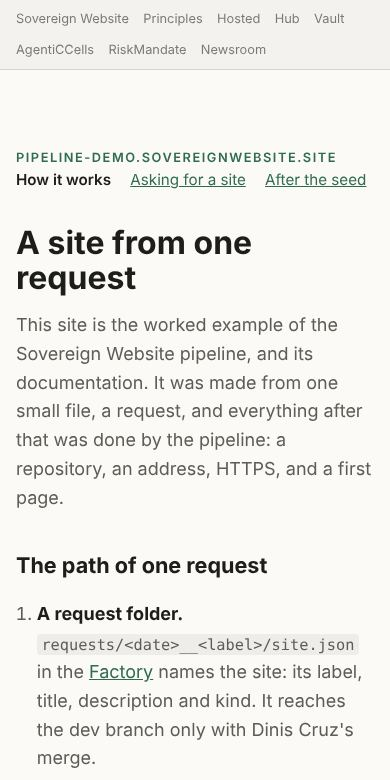
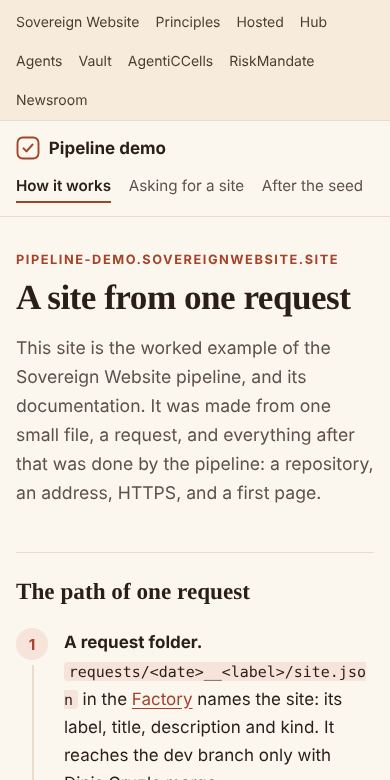
Showroom design round 1, from design.b@'s review
Capped frames (16/10, 4/5 on phones, the whole frame links to the
site); text colours apart from fills, every pair 5:1 or better; a light
and a dark palette in each design, chosen by the visitor's setting;
design 4 is now By group, one band per group; one address per site in
sites.json, screenshots retaken; the switch is a nav landmark; nothing
stored in the browser (the design lives in #design-N); first row of
shots loads eagerly.

Agent: hub.b@SovereignWebsite.dinis
Claude-Session: https://claude.ai/code/session_01Kw9UwB7XboTsnbPPWaMr2d

Changed region(s): [[0.0308, 0.2769, 0.9538, 0.6462], [0.0308, 0.7077, 0.9538, 1.0], [0.0, 0.0, 1.0, 0.2462]]

diff --git a/site/index.html b/site/index.html
@@ -5,60 +5,71 @@
 <meta name="viewport" content="width=device-width, initial-scale=1">
 <title>Sovereign Website Hub</title>
 <meta name="description" content="The showroom of public sovereign websites: built by agents, owned by the people they are for.">
-<script>try{var d=(location.hash.match(/design-([1-5])/)||[])[1]||localStorage.getItem('hub-design');if(d)document.documentElement.className='d-'+d;}catch(e){}</script>
+<script>var d=(location.hash.match(/design-([1-5])/)||[])[1];if(d)document.documentElement.className='d-'+d;</script>
 <style>
 *{box-sizing:border-box}html{-webkit-text-size-adjust:100%}
-body{margin:0;font:17px/1.6 system-ui,-apple-system,"Segoe UI",sans-serif;background:var(--bg);color:var(--fg);transition:background .3s,color .3s}
-a{color:inherit}img{display:block;width:100%;height:auto}
-.switch{position:sticky;top:0;z-index:5;display:flex;gap:.4rem;align-items:center;flex-wrap:wrap;padding:.5rem 1rem;background:color-mix(in srgb,var(--bg) 88%,transparent);backdrop-filter:blur(8px);border-bottom:1px solid var(--line);font-size:.85rem}
+body{margin:0;font:17px/1.6 system-ui,-apple-system,"Segoe UI",sans-serif;background:var(--bg);color:var(--fg)}
+a{color:inherit}img{display:block;width:100%}
+.switch{position:sticky;top:0;z-index:5;display:flex;gap:.4rem;align-items:center;flex-wrap:wrap;padding:.5rem 1rem;background:var(--bg);border-bottom:1px solid var(--line);font-size:.85rem}
 .switch span{color:var(--muted);margin-right:.3rem}.switch button{font:inherit;padding:.3rem .75rem;border-radius:999px;border:1px solid var(--line);background:transparent;color:var(--fg);cursor:pointer}
-.switch button[aria-pressed=true]{background:var(--accent);border-color:var(--accent);color:var(--on-accent)}
+.switch button[aria-pressed=true]{background:var(--fill);border-color:var(--fill);color:var(--on-fill)}
 main{max-width:76rem;margin:0 auto;padding:4rem 1rem 3rem}
 .hero .kicker{text-transform:uppercase;letter-spacing:.16em;font-size:.75rem;font-weight:700;color:var(--accent);margin:0}
 .hero h1{margin:.4rem 0 1rem;line-height:1.02;font-size:clamp(2.4rem,7vw,5rem);letter-spacing:-.02em}
 .hero p{max-width:40rem;color:var(--muted);font-size:1.1rem;margin:0}
 .sites{display:grid;gap:2.5rem;margin-top:3.5rem}
+.band{display:contents}.band-h{display:none}
 .frame{display:block;border-radius:12px;overflow:hidden;background:var(--card);border:1px solid var(--line);text-decoration:none;transition:transform .25s,box-shadow .25s}
-.frame:hover{transform:translateY(-4px);box-shadow:0 18px 40px -18px rgba(0,0,0,.35)}
+.frame:hover,.frame:focus-visible{transform:translateY(-4px);box-shadow:0 18px 40px -18px rgba(0,0,0,.35)}
+.frame img{aspect-ratio:16/10;object-fit:cover;object-position:top;height:auto}
+@media (max-width:640px){.frame img{aspect-ratio:4/5}}
 .chrome{display:flex;align-items:center;gap:.35rem;padding:.5rem .75rem;border-bottom:1px solid var(--line);background:var(--card);font-size:.75rem;color:var(--muted)}
 .chrome i{width:.6rem;height:.6rem;border-radius:50%;background:var(--line)}.chrome b{font-weight:500;margin-left:.5rem;overflow:hidden;text-overflow:ellipsis;white-space:nowrap}
 .tags{display:flex;gap:.4rem;margin:1rem 0 .3rem;padding:0;flex-wrap:wrap}.tags span{font-size:.72rem;text-transform:uppercase;letter-spacing:.1em;padding:.15rem .55rem;border-radius:999px;border:1px solid var(--line);color:var(--muted)}
 .tags span:empty{display:none}
-.site h2{margin:.2rem 0 .4rem;font-size:1.6rem;line-height:1.15}.site h2 a{text-decoration:none}.site h2 a:hover{text-decoration:underline}
-.sum{color:var(--muted);margin:0 0 .6rem}.note{font-size:.85rem;margin:0 0 .6rem;padding:.3rem .6rem;border-left:3px solid var(--accent);background:var(--card)}
+.site h3{margin:.2rem 0 .4rem;font-size:1.6rem;line-height:1.15}.site h3 a{text-decoration:none}.site h3 a:hover{text-decoration:underline}
+.sum{color:var(--muted);margin:0 0 .6rem}.note{font-size:.85rem;margin:0 0 .6rem;padding:.3rem .6rem;border-left:3px solid var(--fill);background:var(--card)}
 .go a{font-weight:600;color:var(--accent);text-decoration:none}.go a:hover{text-decoration:underline}
 .how{margin-top:4rem;padding-top:2rem;border-top:1px solid var(--line);color:var(--muted);font-size:.92rem;max-width:46rem}
+.how a,footer a{color:var(--accent)}
 footer{max-width:76rem;margin:0 auto;padding:1.5rem 1rem 3rem;color:var(--muted);font-size:.82rem;border-top:1px solid var(--line)}
 @media (prefers-reduced-motion:reduce){*{transition:none!important;animation:none!important}}
 
-/* 1 Editorial: light, serif headings, one site per row, large shots */
-.d-1{--bg:#fbfaf7;--fg:#1d1d1b;--muted:#5d5c57;--accent:#2f6b4f;--on-accent:#fff;--line:#e4e1d8;--card:#fff}
-.d-1 h1,.d-1 .site h2{font-family:Georgia,"Times New Roman",serif;font-weight:500}
-@media (min-width:900px){.d-1 .site{display:grid;grid-template-columns:1.6fr 1fr;gap:2.5rem;align-items:center}.d-1 .site:nth-child(even) .frame{order:2}}
+/* Each design has a light and a dark palette; the visitor's setting chooses. --accent is for text, --fill for fills. */
+/* 1 Editorial: serif, one site per row, large shots */
+.d-1{--bg:#fbfaf7;--fg:#1d1d1b;--muted:#5d5c57;--accent:#2f6b4f;--fill:#2f6b4f;--on-fill:#fff;--line:#e4e1d8;--card:#fff}
+@media (prefers-color-scheme:dark){.d-1{--bg:#141513;--fg:#ecebe6;--muted:#a8a69e;--accent:#86c9a8;--fill:#86c9a8;--on-fill:#141513;--line:#2c2d29;--card:#1c1d1a}}
+.d-1 h1,.d-1 .site h3{font-family:Georgia,"Times New Roman",serif;font-weight:500}
+@media (min-width:900px){.d-1 .site{display:grid;grid-template-columns:1.6fr 1fr;gap:2.5rem;align-items:center}.d-1 .site:nth-of-type(even) .frame{order:2}}
 
-/* 2 Night gallery: dark, glowing frames, two columns */
-.d-2{--bg:#0d0f12;--fg:#eef1f4;--muted:#9aa3ad;--accent:#7cf0c4;--on-accent:#0d0f12;--line:#262b31;--card:#151920}
-.d-2 .hero h1{background:linear-gradient(90deg,#7cf0c4,#8ab4ff);-webkit-background-clip:text;background-clip:text;color:transparent}
-.d-2 .frame{box-shadow:0 0 0 1px #262b31,0 20px 60px -30px #7cf0c4}
-@media (min-width:800px){.d-2 .sites{grid-template-columns:1fr 1fr}.d-2 .site:first-child{grid-column:1/-1}}
+/* 2 Night gallery: the first site large and glowing, the rest in a grid */
+.d-2{--bg:#0d0f12;--fg:#eef1f4;--muted:#9aa3ad;--accent:#7cf0c4;--fill:#7cf0c4;--on-fill:#0d0f12;--line:#262b31;--card:#151920;--glow:#7cf0c4}
+@media (prefers-color-scheme:light){.d-2{--bg:#f6f8fb;--fg:#0e1726;--muted:#4a5568;--accent:#0f6e4f;--fill:#0f6e4f;--on-fill:#fff;--line:#d8dee8;--card:#fff;--glow:#3aa77f}}
+.d-2 .hero h1{background:linear-gradient(90deg,var(--accent),#5b8def);-webkit-background-clip:text;background-clip:text;color:transparent}
+.d-2 .frame{box-shadow:0 0 0 1px var(--line),0 20px 60px -30px var(--glow)}
+@media (min-width:800px){.d-2 .sites{grid-template-columns:1fr 1fr}.d-2 .sites>.band:first-child>.site:first-of-type{grid-column:1/-1}}
 
 /* 3 Grid: bold, square, monospace labels, three columns */
-.d-3{--bg:#f4f1ea;--fg:#111;--muted:#333;--accent:#e4402f;--on-accent:#fff;--line:#111;--card:#fff}
+.d-3{--bg:#f4f1ea;--fg:#111;--muted:#333;--accent:#b3261e;--fill:#b3261e;--on-fill:#fff;--line:#111;--card:#fff;--hard:#111}
+@media (prefers-color-scheme:dark){.d-3{--bg:#141414;--fg:#f4f1ea;--muted:#d6d2c8;--accent:#ff8a7a;--fill:#ff8a7a;--on-fill:#141414;--line:#f4f1ea;--card:#1e1e1e;--hard:#f4f1ea}}
 .d-3 .hero h1{text-transform:uppercase;font-weight:900;letter-spacing:-.03em}
-.d-3 .frame,.d-3 .switch button,.d-3 .tags span{border-radius:0;border-width:2px}.d-3 .frame:hover{transform:translate(-4px,-4px);box-shadow:8px 8px 0 #111}
+.d-3 .frame,.d-3 .switch button,.d-3 .tags span{border-radius:0;border-width:2px}.d-3 .frame:hover{transform:translate(-4px,-4px);box-shadow:8px 8px 0 var(--hard)}
 .d-3 .tags span,.d-3 .chrome{font-family:ui-monospace,Menlo,Consolas,monospace}
 @media (min-width:900px){.d-3 .sites{grid-template-columns:repeat(3,1fr);gap:1.5rem}}
 
-/* 4 Magazine: warm cream, staggered, big numbers */
-.d-4{--bg:#f6efe3;--fg:#2b211a;--muted:#6f5e50;--accent:#b4532a;--on-accent:#fff;--line:#e2d3bf;--card:#fffaf2}
-.d-4 h1,.d-4 .site h2{font-family:"Palatino Linotype",Palatino,Georgia,serif}
-.d-4 .site{position:relative;counter-increment:n;padding-top:2.6rem}.d-4 .site::before{content:"0" counter(n);position:absolute;top:0;right:0;font:700 3.2rem/1 Georgia,serif;color:var(--accent);opacity:.25}
-@media (min-width:900px){.d-4 .sites{grid-template-columns:1fr 1fr;column-gap:3rem}.d-4 .site:nth-child(even){margin-top:6rem}}
+/* 4 By group: one band per group, so the page explains the groups as it shows the sites */
+.d-4{--bg:#f6efe3;--fg:#2b211a;--muted:#6f5e50;--accent:#9c4421;--fill:#9c4421;--on-fill:#fff;--line:#e2d3bf;--card:#fffaf2}
+@media (prefers-color-scheme:dark){.d-4{--bg:#1e1813;--fg:#f3e9dc;--muted:#c8b8a6;--accent:#e8a07a;--fill:#e8a07a;--on-fill:#1e1813;--line:#3b3027;--card:#261f19}}
+.d-4 h1,.d-4 .site h3,.d-4 .band-h{font-family:"Palatino Linotype",Palatino,Georgia,serif}
+.d-4 .sites{display:block}.d-4 .band{display:grid;gap:2rem;padding:2rem 0;border-top:2px solid var(--line)}
+.d-4 .band-h{display:block;margin:0;font-size:clamp(1.8rem,4vw,2.6rem);color:var(--accent)}
+@media (min-width:900px){.d-4 .band{grid-template-columns:14rem repeat(2,1fr);align-items:start}.d-4 .band-h{grid-row:span 2}}
 
-/* 5 Studio: gradient stage, floating devices, phone shot on small screens */
-.d-5{--bg:#14112b;--fg:#fff;--muted:#c9c3ef;--accent:#ffcf5c;--on-accent:#14112b;--line:#3a3466;--card:#201b45}
-.d-5 body,.d-5{background:radial-gradient(1200px 600px at 10% -10%,#5b3fd1 0,transparent 60%),radial-gradient(900px 500px at 110% 10%,#d13f8f 0,transparent 55%),#14112b}
-.d-5 .frame{border-radius:18px;transform:perspective(1200px) rotateX(4deg);box-shadow:0 30px 80px -30px #000}.d-5 .frame:hover{transform:perspective(1200px) rotateX(0) translateY(-4px)}
+/* 5 Studio: gradient stage, tilted devices */
+.d-5{--bg:#14112b;--fg:#fff;--muted:#c9c3ef;--accent:#ffcf5c;--fill:#ffcf5c;--on-fill:#14112b;--line:#3a3466;--card:#201b45;--stage:radial-gradient(1200px 600px at 10% -10%,#5b3fd1 0,transparent 60%),radial-gradient(900px 500px at 110% 10%,#d13f8f 0,transparent 55%),#14112b}
+@media (prefers-color-scheme:light){.d-5{--bg:#f7f5ff;--fg:#1b1640;--muted:#4b4570;--accent:#5a3fd1;--fill:#5a3fd1;--on-fill:#fff;--line:#ddd7f5;--card:#fff;--stage:radial-gradient(1200px 600px at 10% -10%,#e3dbff 0,transparent 60%),radial-gradient(900px 500px at 110% 10%,#ffd9ec 0,transparent 55%),#f7f5ff}}
+.d-5 body{background:var(--stage)}
+.d-5 .frame{border-radius:18px;transform:perspective(1200px) rotateX(4deg);box-shadow:0 30px 80px -30px rgba(0,0,0,.6)}.d-5 .frame:hover{transform:perspective(1200px) rotateX(0) translateY(-4px)}
 .d-5 .site{text-align:center}.d-5 .tags{justify-content:center}.d-5 .hero{text-align:center}.d-5 .hero p{margin:0 auto}
 @media (min-width:900px){.d-5 .sites{grid-template-columns:repeat(3,1fr);gap:2rem}}
 
@@ -85,7 +96,7 @@ footer{max-width:76rem;margin:0 auto;padding:1.5rem 1rem 3rem;color:var(--muted)
     <li><a href="https://newsroom.sgit.ai/">Newsroom</a></li>
   </ul>
 </nav>
-<div class="switch" role="group" aria-label="Choose a design"><span>Design</span><button type="button" data-d="1" aria-pressed="false">1. Editorial</button><button type="button" data-d="2" aria-pressed="false">2. Night gallery</button><button type="button" data-d="3" aria-pressed="false">3. Grid</button><button type="button" data-d="4" aria-pressed="false">4. Magazine</button><button type="button" data-d="5" aria-pressed="false">5. Studio</button></div>
+<nav class="switch" aria-label="Design"><span>Design</span><button type="button" data-d="1" aria-pressed="false">1. Editorial</button><button type="button" data-d="2" aria-pressed="false">2. Night gallery</button><button type="button" data-d="3" aria-pressed="false">3. Grid</button><button type="button" data-d="4" aria-pressed="false">4. By group</button><button type="button" data-d="5" aria-pressed="false">5. Studio</button></nav>
 <main>
 <header class="hero">
   <p class="kicker">The showroom</p>
@@ -93,41 +104,45 @@ footer{max-width:76rem;margin:0 auto;padding:1.5rem 1rem 3rem;color:var(--muted)
   <p>Sites built by agents and owned by the people they are for: their files, their history, their address. Every site here is public and live; open one to see it working.</p>
 </header>
 <section class="sites" aria-label="Public sites">
+<section class="band" aria-label="Demo"><h2 class="band-h">Demo</h2>
 <article class="site" style="--i:0">
-  <a class="frame" href="https://pipeline-demo.sovereignweb.site/" aria-label="Open A site from one request"><span class="chrome"><i></i><i></i><i></i><b>pipeline-demo.sovereignweb.site</b></span><picture><source media="(max-width:640px)" srcset="shots/pipeline-demo-phone.jpg"><img src="shots/pipeline-demo.jpg" alt="Screenshot of A site from one request" loading="lazy" width="1280" height="800"></picture></a>
+  <a class="frame" href="https://pipeline-demo.sovereignweb.site/" aria-label="Open A site from one request"><span class="chrome"><i></i><i></i><i></i><b>pipeline-demo.sovereignweb.site</b></span><picture><source media="(max-width:640px)" srcset="shots/pipeline-demo-phone.jpg"><img src="shots/pipeline-demo.jpg" alt="Screenshot of A site from one request" loading="eager" width="1280" height="800"></picture></a>
   <div class="meta">
     <p class="tags"><span>Demo</span><span>Guide</span></p>
-    <h2><a href="https://pipeline-demo.sovereignweb.site/">A site from one request</a></h2>
+    <h3><a href="https://pipeline-demo.sovereignweb.site/">A site from one request</a></h3>
     <p class="sum">How the Sovereign Website pipeline turns one request into a site, with this site as the worked example.</p>
     <p class="go"><a href="https://pipeline-demo.sovereignweb.site/">pipeline-demo.sovereignweb.site <span aria-hidden="true">&rarr;</span></a></p>
   </div>
 </article>
 <article class="site" style="--i:1">
-  <a class="frame" href="https://emily-cruz.artist.sovereignweb.site/" aria-label="Open Emily Cruz"><span class="chrome"><i></i><i></i><i></i><b>emily-cruz.artist.sovereignweb.site</b></span><picture><source media="(max-width:640px)" srcset="shots/emily-cruz-phone.jpg"><img src="shots/emily-cruz.jpg" alt="Screenshot of Emily Cruz" loading="lazy" width="1280" height="800"></picture></a>
-  <div class="meta">
-    <p class="tags"><span>Artist</span><span>Portfolio</span></p>
-    <h2><a href="https://emily-cruz.artist.sovereignweb.site/">Emily Cruz</a></h2>
-    <p class="sum">Emily Cruz, actor-musician and artist. BA (Hons) Actor-Musician, Guildford School of Acting, 2026.</p>
-    <p class="go"><a href="https://emily-cruz.artist.sovereignweb.site/">emily-cruz.artist.sovereignweb.site <span aria-hidden="true">&rarr;</span></a></p>
-  </div>
-</article>
-<article class="site" style="--i:2">
-  <a class="frame" href="https://google-maps.sovereignwebsite.site/" aria-label="Open Directions, and the cameras on the way"><span class="chrome"><i></i><i></i><i></i><b>google-maps.sovereignwebsite.site</b></span><picture><source media="(max-width:640px)" srcset="shots/google-maps-phone.jpg"><img src="shots/google-maps.jpg" alt="Screenshot of Directions, and the cameras on the way" loading="lazy" width="1280" height="800"></picture></a>
+  <a class="frame" href="https://google-maps.sovereignwebsite.site/" aria-label="Open Directions, and the cameras on the way"><span class="chrome"><i></i><i></i><i></i><b>google-maps.sovereignwebsite.site</b></span><picture><source media="(max-width:640px)" srcset="shots/google-maps-phone.jpg"><img src="shots/google-maps.jpg" alt="Screenshot of Directions, and the cameras on the way" loading="eager" width="1280" height="800"></picture></a>
   <div class="meta">
     <p class="tags"><span>Demo</span><span>Tool</span></p>
-    <h2><a href="https://google-maps.sovereignwebsite.site/">Directions, and the cameras on the way</a></h2>
+    <h3><a href="https://google-maps.sovereignwebsite.site/">Directions, and the cameras on the way</a></h3>
     <p class="sum">A sovereign website that uses a paid third-party service, Google Maps, on the owner&#x27;s own key and budget.</p><p class="note">Not switched on yet: waiting for the owner&#x27;s Maps key.</p>
     <p class="go"><a href="https://google-maps.sovereignwebsite.site/">google-maps.sovereignwebsite.site <span aria-hidden="true">&rarr;</span></a></p>
   </div>
 </article>
 </section>
+<section class="band" aria-label="Artist"><h2 class="band-h">Artist</h2>
+<article class="site" style="--i:2">
+  <a class="frame" href="https://emily-cruz.artist.sovereignweb.site/" aria-label="Open Emily Cruz"><span class="chrome"><i></i><i></i><i></i><b>emily-cruz.artist.sovereignweb.site</b></span><picture><source media="(max-width:640px)" srcset="shots/emily-cruz-phone.jpg"><img src="shots/emily-cruz.jpg" alt="Screenshot of Emily Cruz" loading="eager" width="1280" height="800"></picture></a>
+  <div class="meta">
+    <p class="tags"><span>Artist</span><span>Portfolio</span></p>
+    <h3><a href="https://emily-cruz.artist.sovereignweb.site/">Emily Cruz</a></h3>
+    <p class="sum">Emily Cruz, actor-musician and artist. BA (Hons) Actor-Musician, Guildford School of Acting, 2026.</p>
+    <p class="go"><a href="https://emily-cruz.artist.sovereignweb.site/">emily-cruz.artist.sovereignweb.site <span aria-hidden="true">&rarr;</span></a></p>
+  </div>
+</article>
+</section>
+</section>
 <p class="how">Each entry comes from <a href="sites.json">sites.json</a>, in the <a href="schema/hub-site.schema.json">hub-site format</a>, and is added by the site's own agent when the site goes live. Screenshots are taken from the live sites. Source: <a href="https://github.com/SovereignWebsite/SovereignWebsite__Hub">SovereignWebsite__Hub</a>.</p>
 </main>
-<footer>hub.sovereignweb.site · Part of the <a href="https://github.com/SovereignWebsite">SovereignWebsite</a> organisation · No cookies, no tracking.</footer>
+<footer>hub.sovereignweb.site · Part of the <a href="https://github.com/SovereignWebsite">SovereignWebsite</a> organisation · No cookies, no tracking, nothing stored in your browser; the design you pick lives only in the address (#design-1 to #design-5).</footer>
 <script>
 (function(){
   var bs=document.querySelectorAll('.switch button');
-  function set(d){document.documentElement.className='d-'+d;bs.forEach(function(b){b.setAttribute('aria-pressed',b.dataset.d===d?'true':'false');});try{localStorage.setItem('hub-design',d);}catch(e){}}
+  function set(d){document.documentElement.className='d-'+d;bs.forEach(function(b){b.setAttribute('aria-pressed',b.dataset.d===d?'true':'false');});}
   bs.forEach(function(b){b.onclick=function(){set(b.dataset.d);history.replaceState(null,'','#design-'+b.dataset.d);};});
   set((document.documentElement.className.match(/d-([1-5])/)||[0,'1'])[1]);
 })();

diff --git a/tools/build-showroom.py b/tools/build-showroom.py
@@ -31,74 +31,94 @@ def card(s, i):
     note = f'<p class="note">{e(s["note"])}</p>' if s.get('note') else ''
     shot = s.get('shot')
     img = (f'<picture><source media="(max-width:640px)" srcset="{e(shot)}-phone.jpg">'
-           f'<img src="{e(shot)}.jpg" alt="Screenshot of {e(s["name"])}" loading="lazy" width="1280" height="800"></picture>') if shot else ''
+           f'<img src="{e(shot)}.jpg" alt="Screenshot of {e(s["name"])}" loading="{'eager' if i < 3 else 'lazy'}" width="1280" height="800"></picture>') if shot else ''
     return f'''<article class="site" style="--i:{i}">
   <a class="frame" href="{e(s['address']['url'])}" aria-label="Open {e(s['name'])}"><span class="chrome"><i></i><i></i><i></i><b>{e(host)}</b></span>{img}</a>
   <div class="meta">
     <p class="tags"><span>{e(s.get('group', ''))}</span><span>{e(s['kind'])}</span></p>
-    <h2><a href="{e(s['address']['url'])}">{e(s['name'])}</a></h2>
+    <h3><a href="{e(s['address']['url'])}">{e(s['name'])}</a></h3>
     <p class="sum">{e(s['summary'])}</p>{note}
     <p class="go"><a href="{e(s['address']['url'])}">{e(host)} <span aria-hidden="true">&rarr;</span></a></p>
   </div>
 </article>'''
 
 
-cards = '\n'.join(card(s, i) for i, s in enumerate(sites))
-names = ['Editorial', 'Night gallery', 'Grid', 'Magazine', 'Studio']
+groups = []
+for x in sites:
+    g = x.get('group') or 'Other'
+    if g not in groups: groups.append(g)
+ordered = [x for g in groups for x in sites if (x.get('group') or 'Other') == g]
+idx = {id(x): i for i, x in enumerate(ordered)}
+cards = '\n'.join(
+    f'<section class="band" aria-label="{e(g)}"><h2 class="band-h">{e(g)}</h2>\n'
+    + '\n'.join(card(x, idx[id(x)]) for x in ordered if (x.get('group') or 'Other') == g) + '\n</section>'
+    for g in groups)
+names = ['Editorial', 'Night gallery', 'Grid', 'By group', 'Studio']
 
 css = r'''
 *{box-sizing:border-box}html{-webkit-text-size-adjust:100%}
-body{margin:0;font:17px/1.6 system-ui,-apple-system,"Segoe UI",sans-serif;background:var(--bg);color:var(--fg);transition:background .3s,color .3s}
-a{color:inherit}img{display:block;width:100%;height:auto}
-.switch{position:sticky;top:0;z-index:5;display:flex;gap:.4rem;align-items:center;flex-wrap:wrap;padding:.5rem 1rem;background:color-mix(in srgb,var(--bg) 88%,transparent);backdrop-filter:blur(8px);border-bottom:1px solid var(--line);font-size:.85rem}
+body{margin:0;font:17px/1.6 system-ui,-apple-system,"Segoe UI",sans-serif;background:var(--bg);color:var(--fg)}
+a{color:inherit}img{display:block;width:100%}
+.switch{position:sticky;top:0;z-index:5;display:flex;gap:.4rem;align-items:center;flex-wrap:wrap;padding:.5rem 1rem;background:var(--bg);border-bottom:1px solid var(--line);font-size:.85rem}
 .switch span{color:var(--muted);margin-right:.3rem}.switch button{font:inherit;padding:.3rem .75rem;border-radius:999px;border:1px solid var(--line);background:transparent;color:var(--fg);cursor:pointer}
-.switch button[aria-pressed=true]{background:var(--accent);border-color:var(--accent);color:var(--on-accent)}
+.switch button[aria-pressed=true]{background:var(--fill);border-color:var(--fill);color:var(--on-fill)}
 main{max-width:76rem;margin:0 auto;padding:4rem 1rem 3rem}
 .hero .kicker{text-transform:uppercase;letter-spacing:.16em;font-size:.75rem;font-weight:700;color:var(--accent);margin:0}
 .hero h1{margin:.4rem 0 1rem;line-height:1.02;font-size:clamp(2.4rem,7vw,5rem);letter-spacing:-.02em}
 .hero p{max-width:40rem;color:var(--muted);font-size:1.1rem;margin:0}
 .sites{display:grid;gap:2.5rem;margin-top:3.5rem}
+.band{display:contents}.band-h{display:none}
 .frame{display:block;border-radius:12px;overflow:hidden;background:var(--card);border:1px solid var(--line);text-decoration:none;transition:transform .25s,box-shadow .25s}
-.frame:hover{transform:translateY(-4px);box-shadow:0 18px 40px -18px rgba(0,0,0,.35)}
+.frame:hover,.frame:focus-visible{transform:translateY(-4px);box-shadow:0 18px 40px -18px rgba(0,0,0,.35)}
+.frame img{aspect-ratio:16/10;object-fit:cover;object-position:top;height:auto}
+@media (max-width:640px){.frame img{aspect-ratio:4/5}}
 .chrome{display:flex;align-items:center;gap:.35rem;padding:.5rem .75rem;border-bottom:1px solid var(--line);background:var(--card);font-size:.75rem;color:var(--muted)}
 .chrome i{width:.6rem;height:.6rem;border-radius:50%;background:var(--line)}.chrome b{font-weight:500;margin-left:.5rem;overflow:hidden;text-overflow:ellipsis;white-space:nowrap}
 .tags{display:flex;gap:.4rem;margin:1rem 0 .3rem;padding:0;flex-wrap:wrap}.tags span{font-size:.72rem;text-transform:uppercase;letter-spacing:.1em;padding:.15rem .55rem;border-radius:999px;border:1px solid var(--line);color:var(--muted)}
 .tags span:empty{display:none}
-.site h2{margin:.2rem 0 .4rem;font-size:1.6rem;line-height:1.15}.site h2 a{text-decoration:none}.site h2 a:hover{text-decoration:underline}
-.sum{color:var(--muted);margin:0 0 .6rem}.note{font-size:.85rem;margin:0 0 .6rem;padding:.3rem .6rem;border-left:3px solid var(--accent);background:var(--card)}
+.site h3{margin:.2rem 0 .4rem;font-size:1.6rem;line-height:1.15}.site h3 a{text-decoration:none}.site h3 a:hover{text-decoration:underline}
+.sum{color:var(--muted);margin:0 0 .6rem}.note{font-size:.85rem;margin:0 0 .6rem;padding:.3rem .6rem;border-left:3px solid var(--fill);background:var(--card)}
 .go a{font-weight:600;color:var(--accent);text-decoration:none}.go a:hover{text-decoration:underline}
 .how{margin-top:4rem;padding-top:2rem;border-top:1px solid var(--line);color:var(--muted);font-size:.92rem;max-width:46rem}
+.how a,footer a{color:var(--accent)}
 footer{max-width:76rem;margin:0 auto;padding:1.5rem 1rem 3rem;color:var(--muted);font-size:.82rem;border-top:1px solid var(--line)}
 @media (prefers-reduced-motion:reduce){*{transition:none!important;animation:none!important}}
 
-/* 1 Editorial: light, serif headings, one site per row, large shots */
-.d-1{--bg:#fbfaf7;--fg:#1d1d1b;--muted:#5d5c57;--accent:#2f6b4f;--on-accent:#fff;--line:#e4e1d8;--card:#fff}
-.d-1 h1,.d-1 .site h2{font-family:Georgia,"Times New Roman",serif;font-weight:500}
-@media (min-width:900px){.d-1 .site{display:grid;grid-template-columns:1.6fr 1fr;gap:2.5rem;align-items:center}.d-1 .site:nth-child(even) .frame{order:2}}
+/* Each design has a light and a dark palette; the visitor's setting chooses. --accent is for text, --fill for fills. */
+/* 1 Editorial: serif, one site per row, large shots */
+.d-1{--bg:#fbfaf7;--fg:#1d1d1b;--muted:#5d5c57;--accent:#2f6b4f;--fill:#2f6b4f;--on-fill:#fff;--line:#e4e1d8;--card:#fff}
+@media (prefers-color-scheme:dark){.d-1{--bg:#141513;--fg:#ecebe6;--muted:#a8a69e;--accent:#86c9a8;--fill:#86c9a8;--on-fill:#141513;--line:#2c2d29;--card:#1c1d1a}}
+.d-1 h1,.d-1 .site h3{font-family:Georgia,"Times New Roman",serif;font-weight:500}
+@media (min-width:900px){.d-1 .site{display:grid;grid-template-columns:1.6fr 1fr;gap:2.5rem;align-items:center}.d-1 .site:nth-of-type(even) .frame{order:2}}
 
-/* 2 Night gallery: dark, glowing frames, two columns */
-.d-2{--bg:#0d0f12;--fg:#eef1f4;--muted:#9aa3ad;--accent:#7cf0c4;--on-accent:#0d0f12;--line:#262b31;--card:#151920}
-.d-2 .hero h1{background:linear-gradient(90deg,#7cf0c4,#8ab4ff);-webkit-background-clip:text;background-clip:text;color:transparent}
-.d-2 .frame{box-shadow:0 0 0 1px #262b31,0 20px 60px -30px #7cf0c4}
-@media (min-width:800px){.d-2 .sites{grid-template-columns:1fr 1fr}.d-2 .site:first-child{grid-column:1/-1}}
+/* 2 Night gallery: the first site large and glowing, the rest in a grid */
+.d-2{--bg:#0d0f12;--fg:#eef1f4;--muted:#9aa3ad;--accent:#7cf0c4;--fill:#7cf0c4;--on-fill:#0d0f12;--line:#262b31;--card:#151920;--glow:#7cf0c4}
+@media (prefers-color-scheme:light){.d-2{--bg:#f6f8fb;--fg:#0e1726;--muted:#4a5568;--accent:#0f6e4f;--fill:#0f6e4f;--on-fill:#fff;--line:#d8dee8;--card:#fff;--glow:#3aa77f}}
+.d-2 .hero h1{background:linear-gradient(90deg,var(--accent),#5b8def);-webkit-background-clip:text;background-clip:text;color:transparent}
+.d-2 .frame{box-shadow:0 0 0 1px var(--line),0 20px 60px -30px var(--glow)}
+@media (min-width:800px){.d-2 .sites{grid-template-columns:1fr 1fr}.d-2 .sites>.band:first-child>.site:first-of-type{grid-column:1/-1}}
 
 /* 3 Grid: bold, square, monospace labels, three columns */
-.d-3{--bg:#f4f1ea;--fg:#111;--muted:#333;--accent:#e4402f;--on-accent:#fff;--line:#111;--card:#fff}
+.d-3{--bg:#f4f1ea;--fg:#111;--muted:#333;--accent:#b3261e;--fill:#b3261e;--on-fill:#fff;--line:#111;--card:#fff;--hard:#111}
+@media (prefers-color-scheme:dark){.d-3{--bg:#141414;--fg:#f4f1ea;--muted:#d6d2c8;--accent:#ff8a7a;--fill:#ff8a7a;--on-fill:#141414;--line:#f4f1ea;--card:#1e1e1e;--hard:#f4f1ea}}
 .d-3 .hero h1{text-transform:uppercase;font-weight:900;letter-spacing:-.03em}
-.d-3 .frame,.d-3 .switch button,.d-3 .tags span{border-radius:0;border-width:2px}.d-3 .frame:hover{transform:translate(-4px,-4px);box-shadow:8px 8px 0 #111}
+.d-3 .frame,.d-3 .switch button,.d-3 .tags span{border-radius:0;border-width:2px}.d-3 .frame:hover{transform:translate(-4px,-4px);box-shadow:8px 8px 0 var(--hard)}
 .d-3 .tags span,.d-3 .chrome{font-family:ui-monospace,Menlo,Consolas,monospace}
 @media (min-width:900px){.d-3 .sites{grid-template-columns:repeat(3,1fr);gap:1.5rem}}
 
-/* 4 Magazine: warm cream, staggered, big numbers */
-.d-4{--bg:#f6efe3;--fg:#2b211a;--muted:#6f5e50;--accent:#b4532a;--on-accent:#fff;--line:#e2d3bf;--card:#fffaf2}
-.d-4 h1,.d-4 .site h2{font-family:"Palatino Linotype",Palatino,Georgia,serif}
-.d-4 .site{position:relative;counter-increment:n;padding-top:2.6rem}.d-4 .site::before{content:"0" counter(n);position:absolute;top:0;right:0;font:700 3.2rem/1 Georgia,serif;color:var(--accent);opacity:.25}
-@media (min-width:900px){.d-4 .sites{grid-template-columns:1fr 1fr;column-gap:3rem}.d-4 .site:nth-child(even){margin-top:6rem}}
+/* 4 By group: one band per group, so the page explains the groups as it shows the sites */
+.d-4{--bg:#f6efe3;--fg:#2b211a;--muted:#6f5e50;--accent:#9c4421;--fill:#9c4421;--on-fill:#fff;--line:#e2d3bf;--card:#fffaf2}
+@media (prefers-color-scheme:dark){.d-4{--bg:#1e1813;--fg:#f3e9dc;--muted:#c8b8a6;--accent:#e8a07a;--fill:#e8a07a;--on-fill:#1e1813;--line:#3b3027;--card:#261f19}}
+.d-4 h1,.d-4 .site h3,.d-4 .band-h{font-family:"Palatino Linotype",Palatino,Georgia,serif}
+.d-4 .sites{display:block}.d-4 .band{display:grid;gap:2rem;padding:2rem 0;border-top:2px solid var(--line)}
+.d-4 .band-h{display:block;margin:0;font-size:clamp(1.8rem,4vw,2.6rem);color:var(--accent)}
+@media (min-width:900px){.d-4 .band{grid-template-columns:14rem repeat(2,1fr);align-items:start}.d-4 .band-h{grid-row:span 2}}
 
-/* 5 Studio: gradient stage, floating devices, phone shot on small screens */
-.d-5{--bg:#14112b;--fg:#fff;--muted:#c9c3ef;--accent:#ffcf5c;--on-accent:#14112b;--line:#3a3466;--card:#201b45}
-.d-5 body,.d-5{background:radial-gradient(1200px 600px at 10% -10%,#5b3fd1 0,transparent 60%),radial-gradient(900px 500px at 110% 10%,#d13f8f 0,transparent 55%),#14112b}
-.d-5 .frame{border-radius:18px;transform:perspective(1200px) rotateX(4deg);box-shadow:0 30px 80px -30px #000}.d-5 .frame:hover{transform:perspective(1200px) rotateX(0) translateY(-4px)}
+/* 5 Studio: gradient stage, tilted devices */
+.d-5{--bg:#14112b;--fg:#fff;--muted:#c9c3ef;--accent:#ffcf5c;--fill:#ffcf5c;--on-fill:#14112b;--line:#3a3466;--card:#201b45;--stage:radial-gradient(1200px 600px at 10% -10%,#5b3fd1 0,transparent 60%),radial-gradient(900px 500px at 110% 10%,#d13f8f 0,transparent 55%),#14112b}
+@media (prefers-color-scheme:light){.d-5{--bg:#f7f5ff;--fg:#1b1640;--muted:#4b4570;--accent:#5a3fd1;--fill:#5a3fd1;--on-fill:#fff;--line:#ddd7f5;--card:#fff;--stage:radial-gradient(1200px 600px at 10% -10%,#e3dbff 0,transparent 60%),radial-gradient(900px 500px at 110% 10%,#ffd9ec 0,transparent 55%),#f7f5ff}}
+.d-5 body{background:var(--stage)}
+.d-5 .frame{border-radius:18px;transform:perspective(1200px) rotateX(4deg);box-shadow:0 30px 80px -30px rgba(0,0,0,.6)}.d-5 .frame:hover{transform:perspective(1200px) rotateX(0) translateY(-4px)}
 .d-5 .site{text-align:center}.d-5 .tags{justify-content:center}.d-5 .hero{text-align:center}.d-5 .hero p{margin:0 auto}
 @media (min-width:900px){.d-5 .sites{grid-template-columns:repeat(3,1fr);gap:2rem}}
 '''
@@ -110,14 +130,14 @@ page = f'''<!doctype html>
 <meta name="viewport" content="width=device-width, initial-scale=1">
 <title>Sovereign Website Hub</title>
 <meta name="description" content="The showroom of public sovereign websites: built by agents, owned by the people they are for.">
-<script>try{{var d=(location.hash.match(/design-([1-5])/)||[])[1]||localStorage.getItem('hub-design');if(d)document.documentElement.className='d-'+d;}}catch(e){{}}</script>
+<script>var d=(location.hash.match(/design-([1-5])/)||[])[1];if(d)document.documentElement.className='d-'+d;</script>
 <style>{css}
 {family_css}
 </style>
 </head>
 <body>
 {family}
-<div class="switch" role="group" aria-label="Choose a design"><span>Design</span>{''.join(f'<button type="button" data-d="{i+1}" aria-pressed="false">{i+1}. {n}</button>' for i, n in enumerate(names))}</div>
+<nav class="switch" aria-label="Design"><span>Design</span>{''.join(f'<button type="button" data-d="{i+1}" aria-pressed="false">{i+1}. {n}</button>' for i, n in enumerate(names))}</nav>
 <main>
 <header class="hero">
   <p class="kicker">The showroom</p>
@@ -129,11 +149,11 @@ page = f'''<!doctype html>
 </section>
 <p class="how">Each entry comes from <a href="sites.json">sites.json</a>, in the <a href="schema/hub-site.schema.json">hub-site format</a>, and is added by the site's own agent when the site goes live. Screenshots are taken from the live sites. Source: <a href="https://github.com/SovereignWebsite/SovereignWebsite__Hub">SovereignWebsite__Hub</a>.</p>
 </main>
-<footer>hub.sovereignweb.site · Part of the <a href="https://github.com/SovereignWebsite">SovereignWebsite</a> organisation · No cookies, no tracking.</footer>
+<footer>hub.sovereignweb.site · Part of the <a href="https://github.com/SovereignWebsite">SovereignWebsite</a> organisation · No cookies, no tracking, nothing stored in your browser; the design you pick lives only in the address (#design-1 to #design-5).</footer>
 <script>
 (function(){{
   var bs=document.querySelectorAll('.switch button');
-  function set(d){{document.documentElement.className='d-'+d;bs.forEach(function(b){{b.setAttribute('aria-pressed',b.dataset.d===d?'true':'false');}});try{{localStorage.setItem('hub-design',d);}}catch(e){{}}}}
+  function set(d){{document.documentElement.className='d-'+d;bs.forEach(function(b){{b.setAttribute('aria-pressed',b.dataset.d===d?'true':'false');}});}}
   bs.forEach(function(b){{b.onclick=function(){{set(b.dataset.d);history.replaceState(null,'','#design-'+b.dataset.d);}};}});
   set((document.documentElement.className.match(/d-([1-5])/)||[0,'1'])[1]);
 }})();
